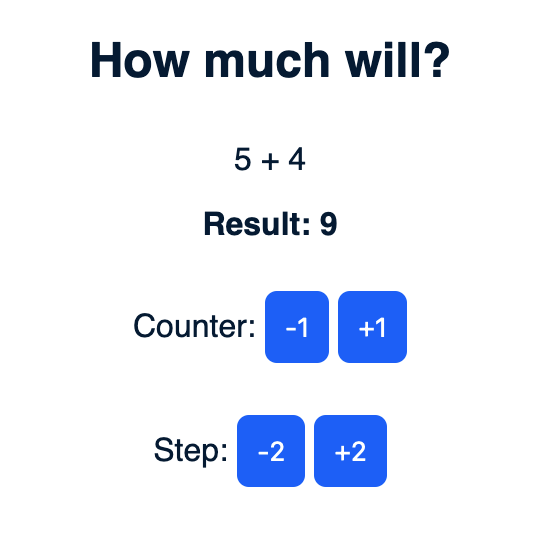
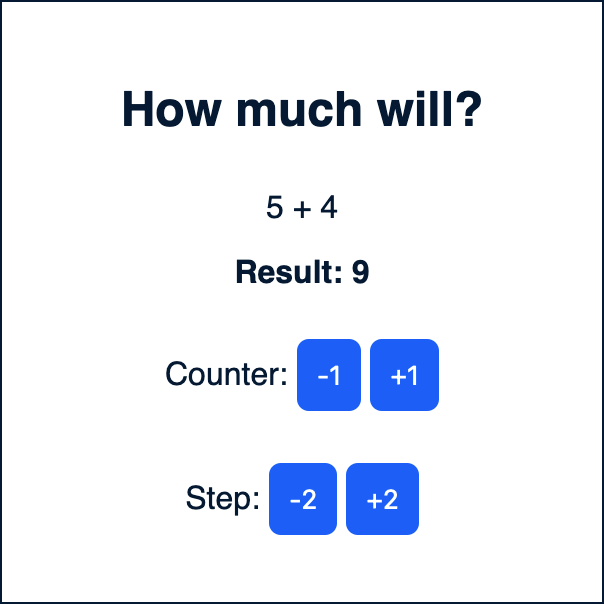
Added style and update pictures

diff --git a/style/index.css b/style/index.css
@@ -1,0 +1,40 @@
+body {
+    margin: 0;
+    padding: 0;
+    font-size: 1em;
+    font-family: sans-serif;
+    color: #001a34;
+    height: 100vh;
+}
+
+p {
+    margin-block-start: 0.5em;
+    margin-block-end: 0.5em;
+}
+
+.app {
+    display: flex;
+    flex-direction: column;
+    min-height: 50%;
+    justify-content: center;
+    align-items: center;
+
+}
+
+.button {
+    border: none;
+    padding: 10px;
+    background-color: #005bff;
+    color: #fff;
+    border-radius: 6px;
+    cursor: pointer;
+    margin-bottom: 10px;
+}
+
+.button:hover {
+    background-color: #003ead;
+}
+
+.math {
+    margin-block-start: 1em;
+}
